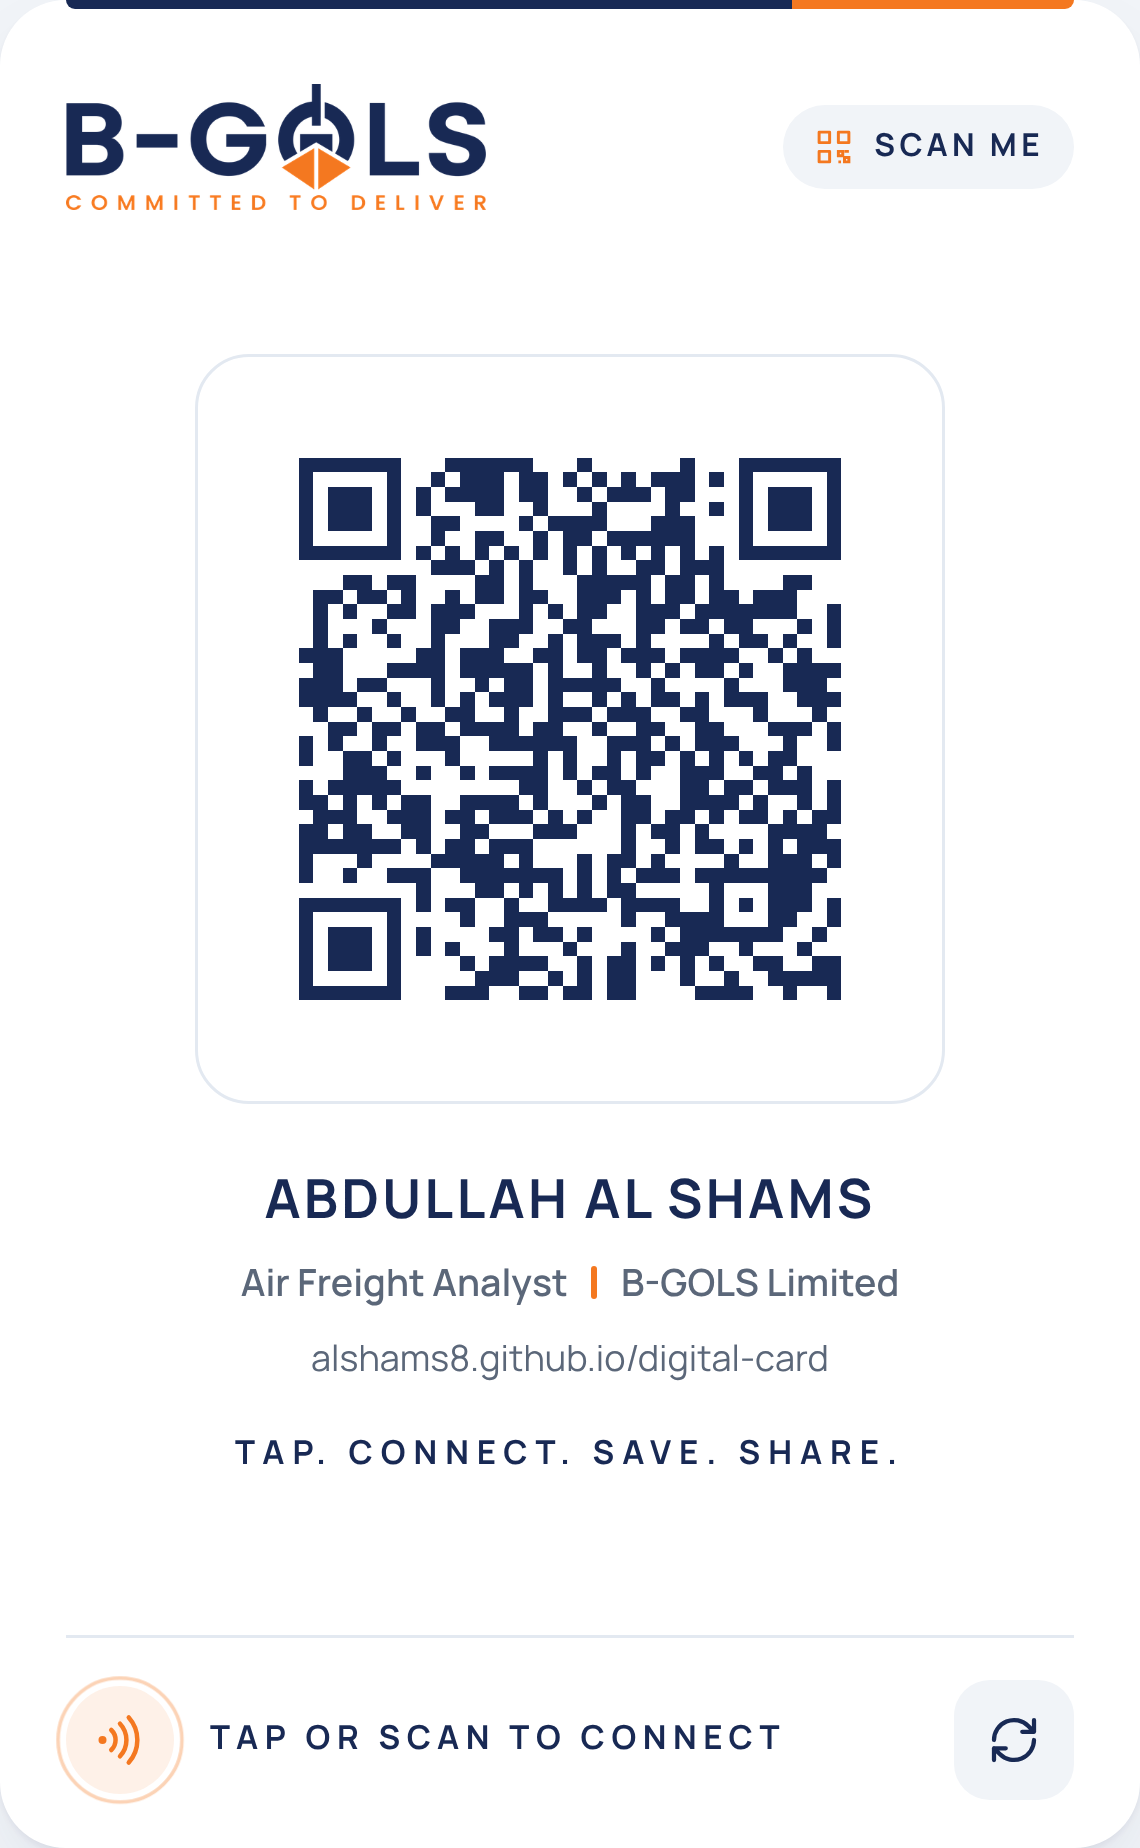
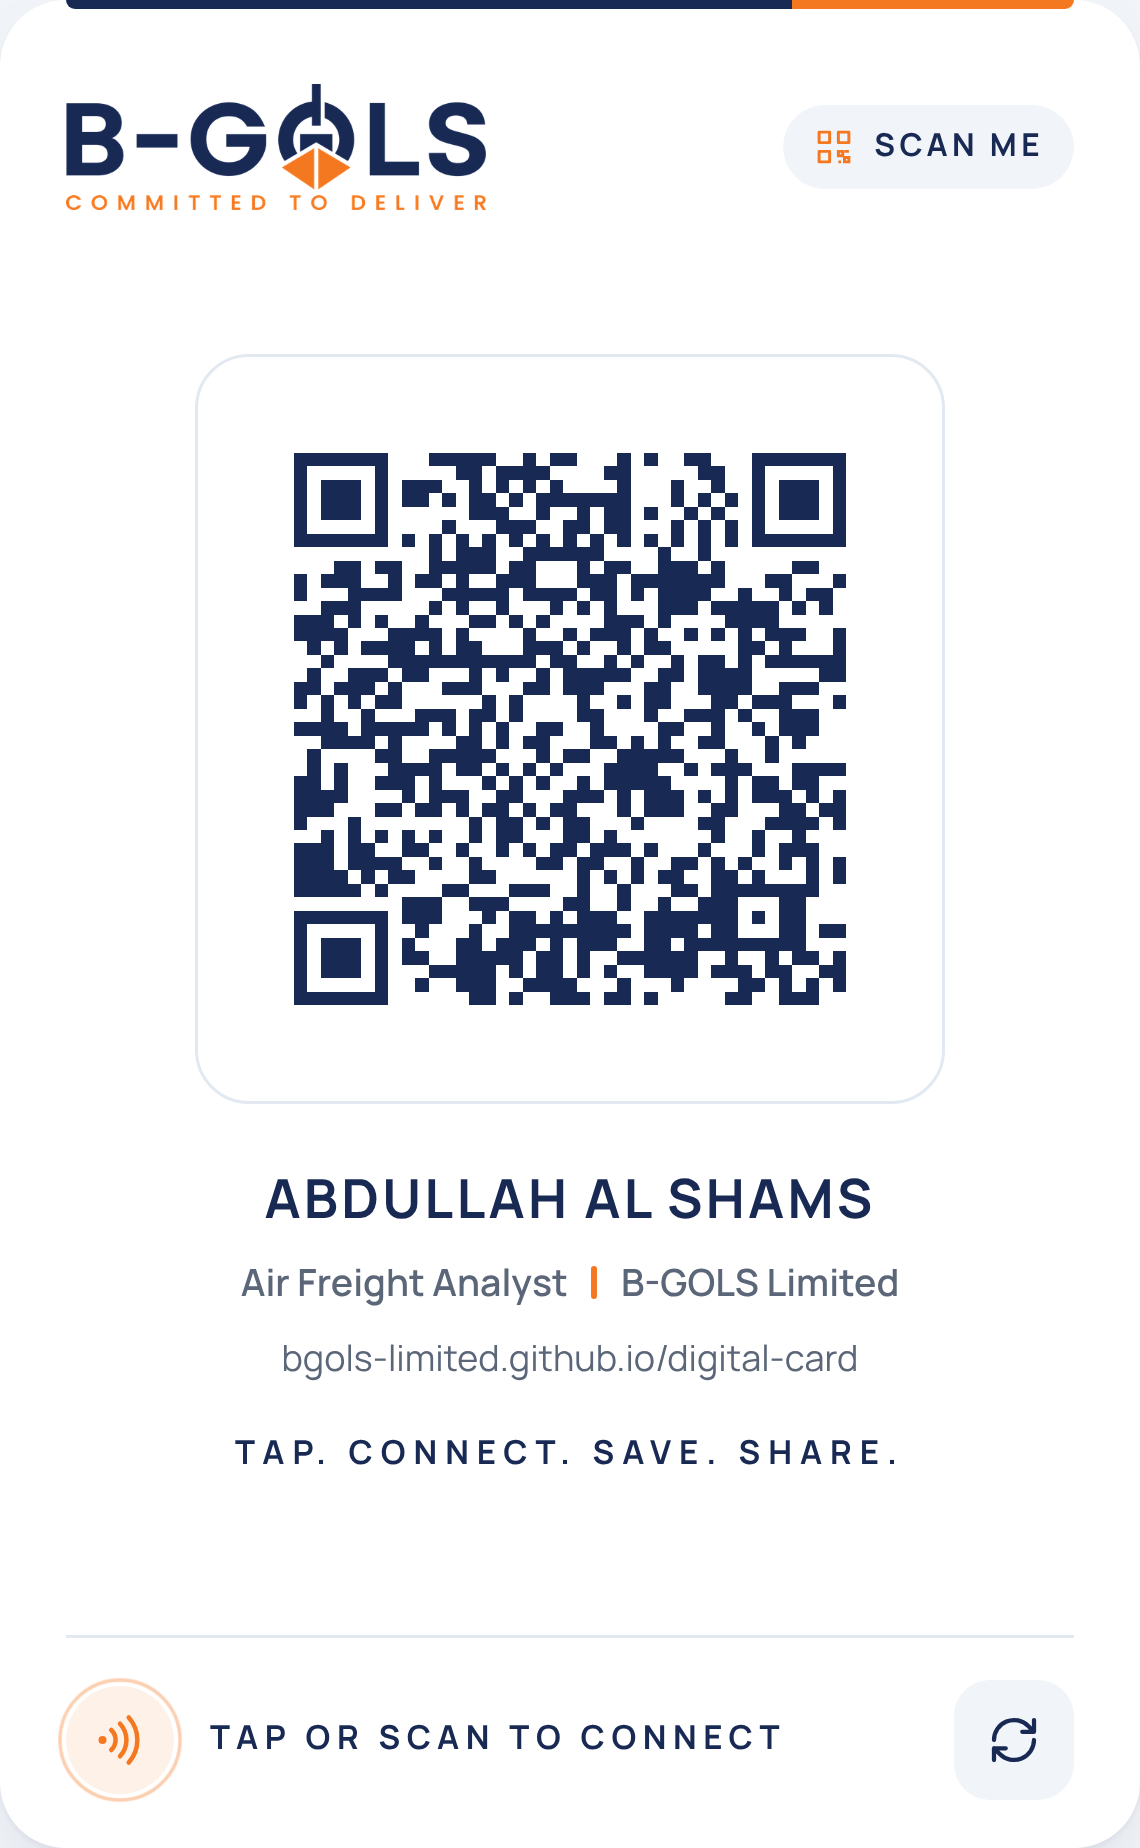
Move to bgols-limited.github.io: new QR codes, contact file, links
Claude-Session: https://claude.ai/code/session_01TprP1ieCAEd2tQhQxghHUL

diff --git a/index.html b/index.html
@@ -9,12 +9,12 @@
   <meta name="theme-color" content="#FFFFFF">
   <meta name="format-detection" content="telephone=no">
   <!-- build:meta (generated by scripts/build.mjs from js/config.js — do not edit by hand) -->
-  <link rel="canonical" href="https://alshams8.github.io/digital-card/">
+  <link rel="canonical" href="https://bgols-limited.github.io/digital-card/">
   <meta property="og:type" content="profile">
   <meta property="og:title" content="Abdullah Al Shams | Air Freight Analyst | B-GOLS Limited">
   <meta property="og:description" content="Tap. Connect. Save. Share. Digital business card of Abdullah Al Shams, B-GOLS Limited.">
-  <meta property="og:url" content="https://alshams8.github.io/digital-card/">
-  <meta property="og:image" content="https://alshams8.github.io/digital-card/assets/exports/og-image.png">
+  <meta property="og:url" content="https://bgols-limited.github.io/digital-card/">
+  <meta property="og:image" content="https://bgols-limited.github.io/digital-card/assets/exports/og-image.png">
   <meta property="og:image:width" content="1200">
   <meta property="og:image:height" content="630">
   <meta name="twitter:card" content="summary_large_image">

diff --git a/sw.js b/sw.js
@@ -1,7 +1,7 @@
 /* Service worker: makes the card open instantly and work offline.
    Bump VERSION whenever you change any file so phones fetch the update. */
 const PREFIX = "shams-card-";
-const VERSION = PREFIX + "v8";
+const VERSION = PREFIX + "v9";
 const CORE = [
   "./", "index.html", "card.html", "nfc-setup.html", "email-signature.html", "css/styles.css", "js/config.js", "js/app.js", "contact.vcf",
   "manifest.webmanifest",

diff --git a/js/config.js b/js/config.js
@@ -11,5 +11,5 @@
  *   https://card.bgols.com/abdullah/
  */
 window.CARD_CONFIG = {
-  PROFILE_URL: "https://alshams8.github.io/digital-card/"
+  PROFILE_URL: "https://bgols-limited.github.io/digital-card/"
 };

diff --git a/docs/DEPLOYMENT.md b/docs/DEPLOYMENT.md
@@ -5,10 +5,10 @@ The card is a folder of static files. Any HTTPS static host works. The address y
 
 ## Option 1: GitHub Pages (free, fastest)
 
-1. Create a public repository on GitHub, e.g. `digital-card` (account `alshams8`).
+1. Create a public repository on GitHub, e.g. `digital-card` (account `bgols-limited`).
 2. Upload the contents of this folder (or `git push`). `node_modules/` is not needed.
 3. Repository → **Settings → Pages** → Source: *Deploy from a branch* → Branch `main`, folder `/ (root)` → Save.
-4. After ~1 minute the site is at `https://alshams8.github.io/digital-card/`. That is the placeholder
+4. After ~1 minute the site is at `https://bgols-limited.github.io/digital-card/`. That is the placeholder
    already in `js/config.js`, so if you use exactly this name nothing needs regenerating.
 5. Tick **Enforce HTTPS** (on by default for `github.io`).
 
@@ -26,7 +26,7 @@ It needs B-GOLS IT (whoever manages the `bgols.com` DNS):
 
 1. Host the folder on any of the options above, inside a sub-folder `abdullah/`
    (e.g. repository `card`, files in `abdullah/`).
-2. DNS: add a **CNAME** record `card` → `alshams8.github.io` (GitHub) or the Netlify/Cloudflare target.
+2. DNS: add a **CNAME** record `card` → `bgols-limited.github.io` (GitHub) or the Netlify/Cloudflare target.
 3. GitHub Pages: Settings → Pages → *Custom domain* `card.bgols.com` → wait for the certificate → *Enforce HTTPS*.
 4. Open `https://card.bgols.com/abdullah/` in a browser and check the padlock **before** writing tags.
 5. Set `PROFILE_URL` to `https://card.bgols.com/abdullah/`, run the build, redeploy.

diff --git a/README.md b/README.md
@@ -9,7 +9,7 @@ HTTPS address is shared four ways: an **NFC tag**, a **QR code**, a **link**, an
 **save the contact (.vcf)**. No app, login, tracking or data collection.
 
 > **Status:** the code is complete and tested in a headless browser. It is **not live yet**.
-> `js/config.js` holds a **placeholder** address (`https://alshams8.github.io/digital-card/`).
+> `js/config.js` holds a **placeholder** address (`https://bgols-limited.github.io/digital-card/`).
 > Host the folder, put the real address in `js/config.js`, run `node scripts/build.mjs`, then write the NFC tag.
 
 ---
